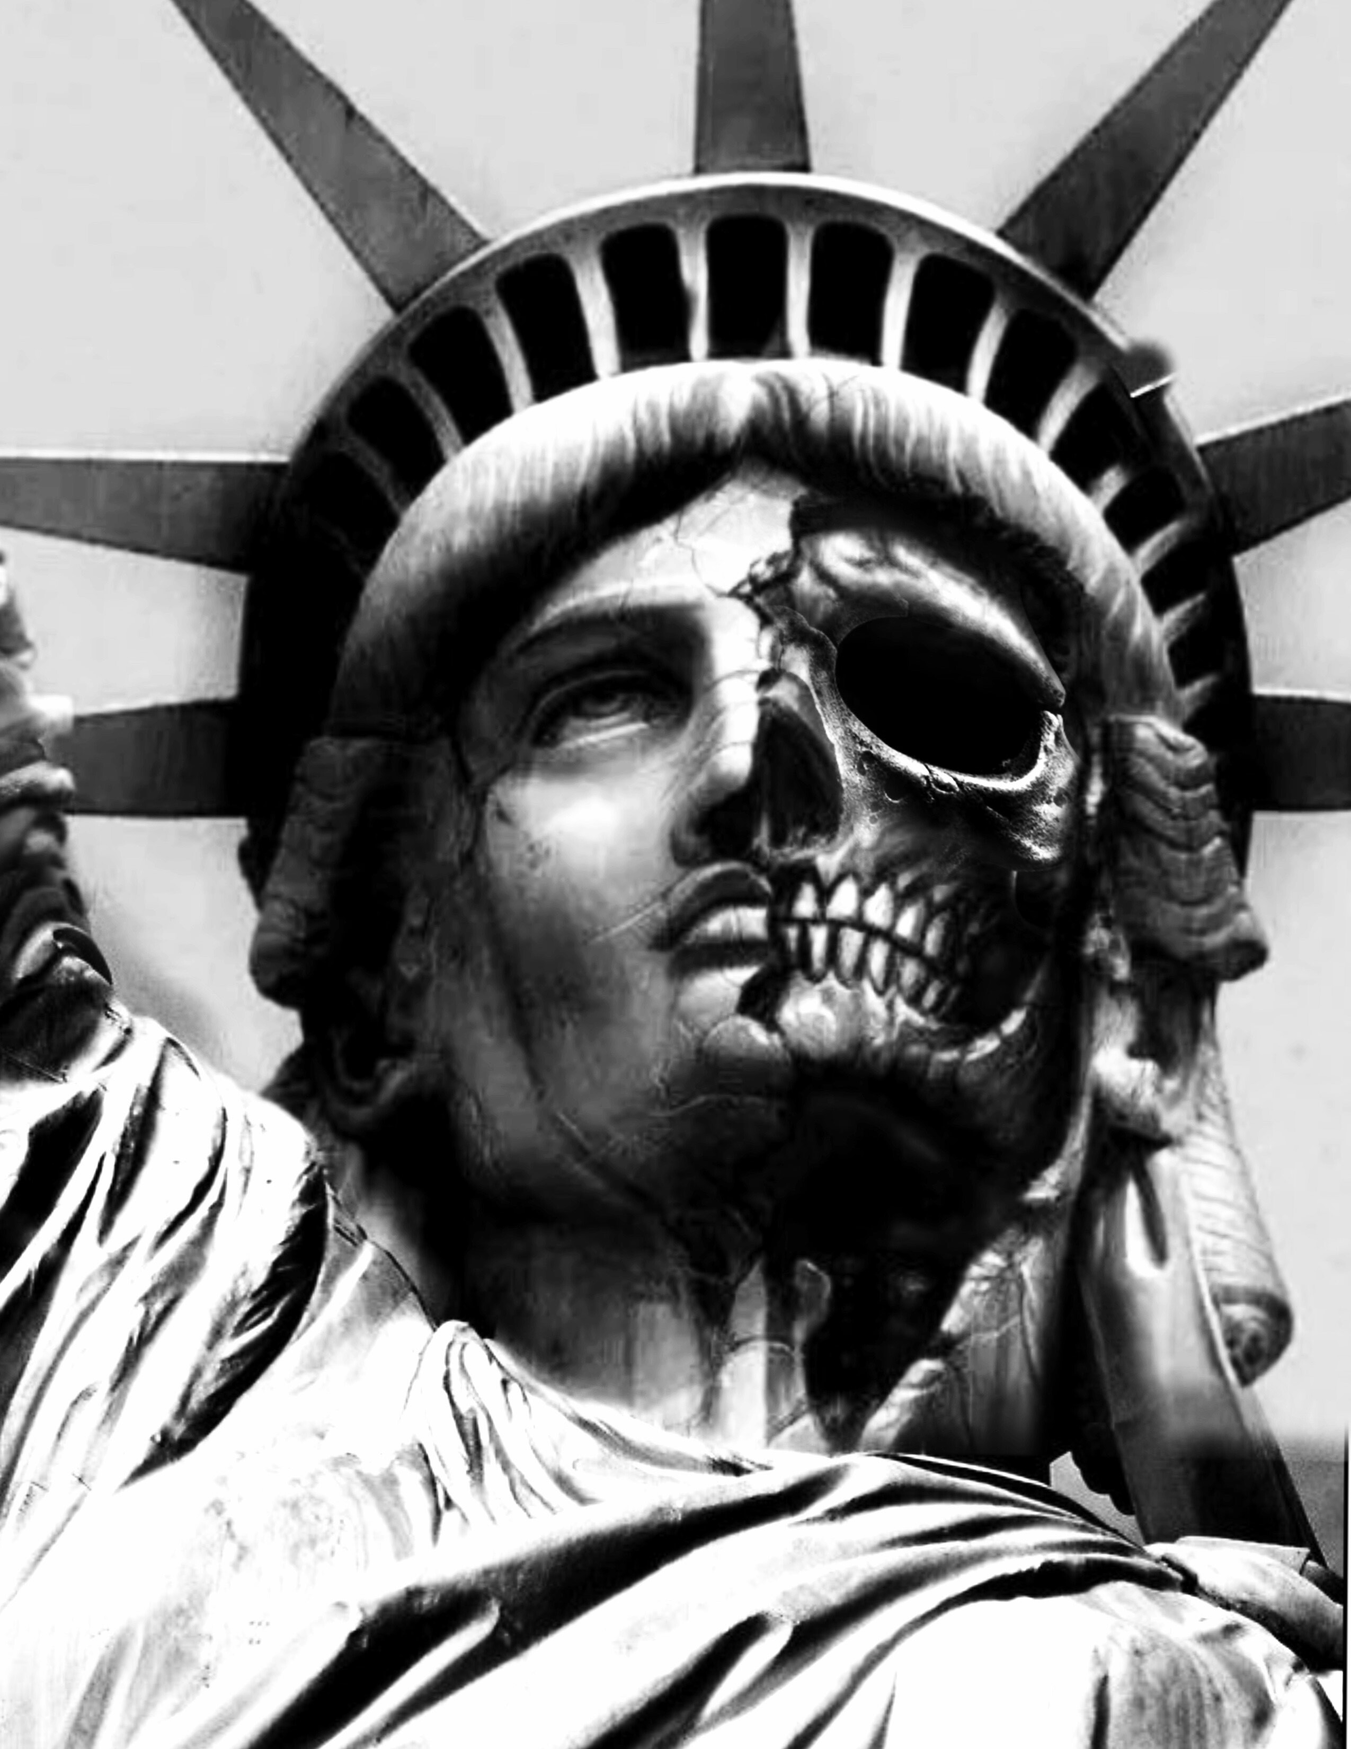
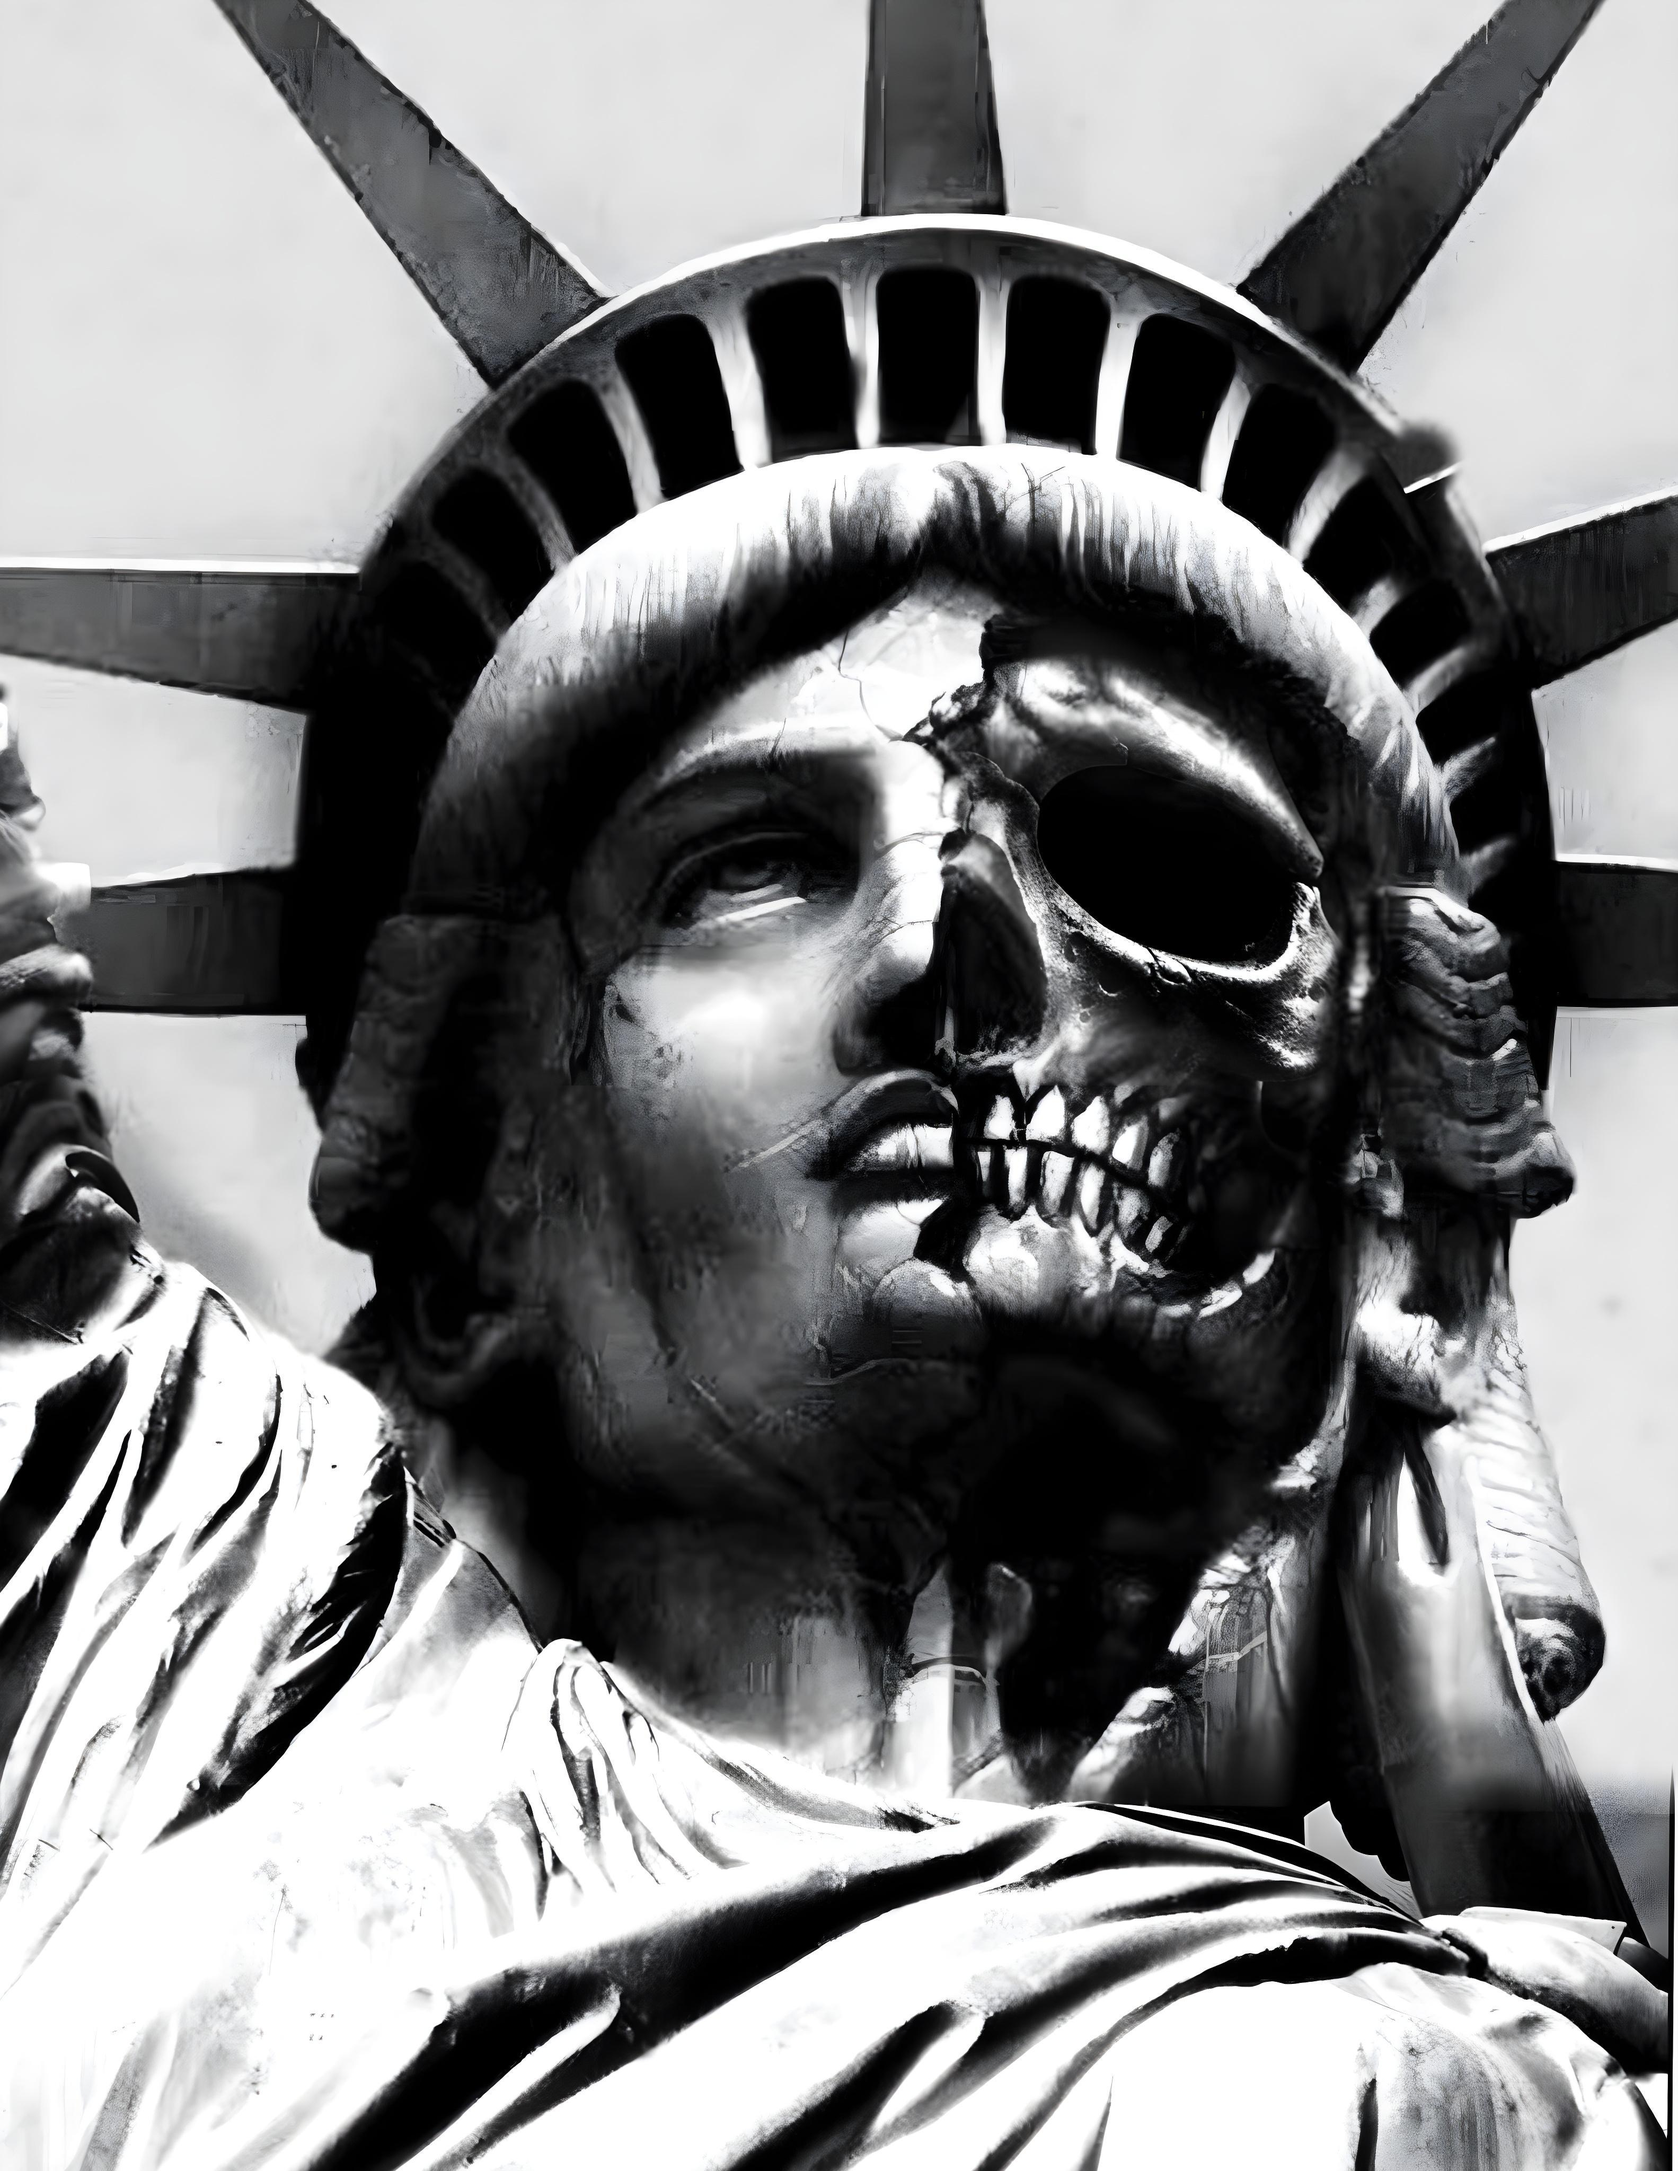
changes

diff --git a/index.html b/index.html
@@ -82,14 +82,14 @@
     </style>
   </head>
   <body>
-    <div class="container-fluid">
+    <div class="container-fluid" >
       <div
         class="row"
-        style="box-shadow: 0px 0px 7px #d5cbcb; border-radius: 10px"
+        style="box-shadow: 0px 0px 7px #d5cbcb; border-radius: 10px;min-height: 100vh;"
       >
         <div class="col-md-4" style="background: #12326f">
           <form id="imageForm">
-            <div class="form-group w-100">
+            <div class="form-group w-100 mb-4">
               <label for="image">Select an image:</label>
               <input
                 type="file"
@@ -100,8 +100,15 @@
                 class="form-control"
               />
             </div>
-            <br />
-            <div class="form-group w-100">
+            <div class="form-group w-100 mb-4">
+              <label class="form-label" for="models"> Models </label>
+              <select class="form-control" id="models" name="models">
+                <option value="1">Model 1</option>
+                <option value="2">Model 2</option>
+                <option selected value="3">Model 3</option>
+              </select>
+            </div>
+            <div class="form-group modelControls w-100 modelinput1 mb-4">
               <label class="form-label" for="blur">
                 Blur Value:
                 <span
@@ -127,8 +134,7 @@
                 <output>5</output>
               </div>
             </div>
-            <br />
-            <div class="form-group w-100">
+            <div class="form-group w-100 modelControls modelinput1 mb-4">
               <label class="form-label" for="canny_thresh1">
                 Canny Threshold 1:
                 <span
@@ -150,8 +156,7 @@
                 <output>50</output>
               </div>
             </div>
-            <br />
-            <div class="form-group w-100">
+            <div class="form-group w-100 modelControls modelinput1 mb-4">
               <label class="form-label" for="canny_thresh2"
                 >Canny Threshold 2:
                 <span
@@ -175,8 +180,7 @@
                 <output>60</output>
               </div>
             </div>
-            <br />
-            <div class="form-group w-100">
+            <div class="form-group w-100 modelControls modelinput1 mb-4">
               <label class="form-label" for="brightness"> Brightness </label>
               <div class="d-flex gap-2">
                 <input
@@ -191,8 +195,7 @@
                 <output>30</output>
               </div>
             </div>
-            <br />
-            <div class="form-group w-100">
+            <div class="form-group w-100 modelControls modelinput1 mb-4">
               <label class="form-label" for="sharpness"> Sharpness </label>
               <div class="d-flex gap-2">
                 <input
@@ -208,8 +211,7 @@
                 <output>1.5</output>
               </div>
             </div>
-            <br />
-            <div class="form-group w-100">
+            <div class="form-group w-100 modelControls modelinput1 mb-4">
               <label class="form-label" for="contrast"> Contrast </label>
               <select class="form-control" id="contrast" name="contrast">
                 <option selected value="True">True</option>
@@ -217,6 +219,23 @@
               </select>
             </div>
 
+            <div class="form-group modelControls w-100 modelinput3 mb-4">
+              <label class="form-label" for="smoothness"> Smoothness: </label>
+              <div class="d-flex gap-2">
+                <input
+                  class="form-range"
+                  type="range"
+                  id="smoothness"
+                  name="smoothness"
+                  value="51"
+                  min="29"
+                  max="200"
+                  step="2"
+                  oninput="this.nextElementSibling.value = this.value"
+                />
+                <output>5</output>
+              </div>
+            </div>
             <!-- <button type="submit" id="submitbutton" class="btn btn-success">
         Convert Image
       </button> -->
@@ -333,6 +352,11 @@
     <script></script>
 
     <script>
+      jQuery(document).ready(function () {
+        const models = parseInt(document.getElementById("models").value);
+        $(".modelControls").hide();
+        $(`.modelinput${models}`).show();
+      });
       jQuery("#history").click(function () {
         jQuery(".current").hide();
         jQuery(".history").show();
@@ -344,7 +368,13 @@
       jQuery(document).on("click", ".help", function () {
         jQuery("#exampleModal").modal("show");
       });
+
       $(document).on("change", "input,select", function () {
+        const models = parseInt(document.getElementById("models").value);
+        $(".modelControls").hide();
+
+        $(`.modelinput${models}`).show();
+
         fetchFile();
       });
 
@@ -373,6 +403,8 @@
         const sharpness = document.getElementById("sharpness").value;
         const contrast = document.getElementById("contrast").value;
         const brightness = document.getElementById("brightness").value;
+        const models = document.getElementById("models").value;
+        const smoothness = document.getElementById("smoothness").value;
         const output_type = "image";
         // Append the form data
         formData.append("image", imageFile);
@@ -383,6 +415,8 @@
         formData.append("sharpness", sharpness);
         formData.append("contrast", contrast);
         formData.append("brightness", brightness);
+        formData.append("model", models);
+        formData.append("smoothness", smoothness);
 
         try {
           let api_path = " http://127.0.0.1:5000/";

diff --git a/main.py b/main.py
@@ -8,6 +8,10 @@ from werkzeug.utils import secure_filename
 import logging
 from waitress import serve
 import uuid
+from image_models.model2 import model2
+from image_models.model3 import model3
+from image_models.model4 import model4
+from image_models.model5 import model5 
 
 app = Flask(__name__)
 # Enable CORS
@@ -113,25 +117,38 @@ def convert_image():
     sharpness = float(request.form.get('sharpness', 1.5))  # Default to '1.5'
     contrast = request.form.get('contrast', 'true').lower() == 'true'  # Default to 'True'
     brightness = int(request.form.get('brightness', 30))  # Default to '30'
-    
+    model = int(request.form.get('model', 1))  # Default to '30'
+    smoothness = int(request.form.get('smoothness', 5))  # Default smoothness value of 5
+
     # Step 1: Adjust sharpness
-    if sharpness > 0:
+    if sharpness > 0 & model ==1 :
         image = increase_sharpness(image, alpha=sharpness)
     
     # Step 2: Adjust contrast
-    if contrast:
+    if contrast & model ==1 :
         try:
             image = increase_contrast(image)
         except ValueError as e:
             return jsonify({"error": str(e)}), 400
     
     # Step 3: Adjust brightness
-    if brightness != 0:
+    if brightness != 0 & model ==1 :
         image = adjust_brightness(image, value=brightness)
+        
+    sketch_image = image
     
-    # Step 4: Apply sketching effect (edge detection)
-    sketch_image = apply_sketching(image, blur_value, canny_thresh1, canny_thresh2)
-    
+    if model == 1:
+       # Step 4: Apply sketching effect (edge detection)
+        sketch_image = apply_sketching(image, blur_value, canny_thresh1, canny_thresh2)
+      
+    elif model == 2:
+         sketch_image = model2(image, blur_value = 21)
+      
+    elif model == 3:
+         sketch_image = model3(image,smoothness=smoothness)
+      
+     
+   
     # Generate a unique identifier (UUID) for the output filename
     unique_id = str(uuid.uuid4())
     

diff --git a/image_models/model3.py b/image_models/model3.py
@@ -1,28 +1,36 @@
 
 import cv2
 
-def model3(input_path,output_path):
-    # Load the image
-    image = cv2.imread(input_path)
+# Assuming the image has been loaded correctly
 
-    # Convert to grayscale
-    gray_image = cv2.cvtColor(image, cv2.COLOR_BGR2GRAY)
-    # gray_image = cv2.cvtColor(image, 0)
+# Assuming the image has been loaded correctly
+
+def model3(image, smoothness=5):
+    # Check if the image has 3 or 4 channels before converting
+    if len(image.shape) == 3 and image.shape[2] == 3:
+        # Convert to grayscale if the image is colored
+        gray_image = cv2.cvtColor(image, cv2.COLOR_BGR2GRAY)
+    else:
+        # If the image is already grayscale
+        gray_image = image
 
     # Invert the grayscale image
     inverted_image = 255 - gray_image
 
-    # Apply GaussianBlur to the inverted image
-    blurred = cv2.GaussianBlur(inverted_image, (51, 221), 0)
+    # Apply GaussianBlur to the inverted image with a kernel size dependent on smoothness
+    # Ensure the kernel size is odd and positive for GaussianBlur
+    kernel_size = max(3, 2 * int(smoothness // 2) + 1)  # Ensure the kernel is odd and >= 3
+    blurred = cv2.GaussianBlur(inverted_image, (kernel_size, kernel_size), 0)
 
     # Invert the blurred image
     inverted_blur = 255 - blurred
 
     # Create the pencil sketch by dividing the grayscale image by the inverted blur
     sketch = cv2.divide(gray_image, inverted_blur, scale=256.0)
-    # edges = cv2.Canny(sketch, 0, 0)  # Adjust thresholds as needed
-    # edges_inverted = cv2.bitwise_not(edges)
-    # Save the sketch
-    cv2.imwrite(output_path, sketch)
+
+    return sketch
+
+
+    # cv2.imwrite(output_path, sketch)
 
     print("Sketch created successfully!")

diff --git a/image_models/model2.py b/image_models/model2.py
@@ -1,9 +1,8 @@
 import cv2
 
-def model2(input_path,output_path):
+def model2(image, blur_value):
     # Load the image
-    image = cv2.imread(input_path)
-
+    
     # Convert the image to grayscale
     gray_image = cv2.cvtColor(image, cv2.COLOR_BGR2GRAY)
 
@@ -11,7 +10,7 @@ def model2(input_path,output_path):
     inverted = 255 - gray_image
 
     # Apply Gaussian Blur to the inverted image
-    blurred = cv2.GaussianBlur(inverted, (21, 21), 0)
+    blurred = cv2.GaussianBlur(inverted, (blur_value, blur_value), 0)
 
     # Invert the blurred image
     inverted_blur = 255 - blurred
@@ -24,6 +23,6 @@ def model2(input_path,output_path):
 
     # Invert the edges to get white edges on a black background
     edges_inverted = cv2.bitwise_not(edges)
-
+    return edges_inverted
     # Save the resulting pencil sketch with edges
-    cv2.imwrite(output_path, edges_inverted)
+    # cv2.imwrite(output_path, edges_inverted)
